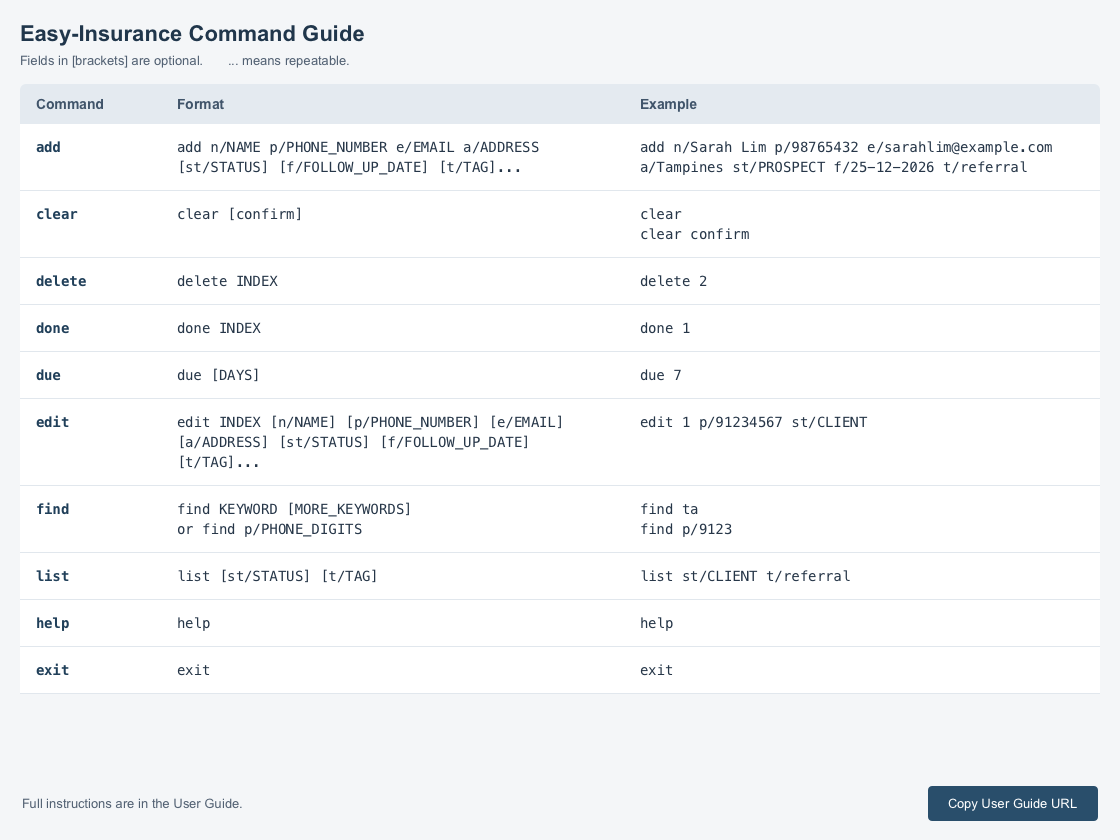
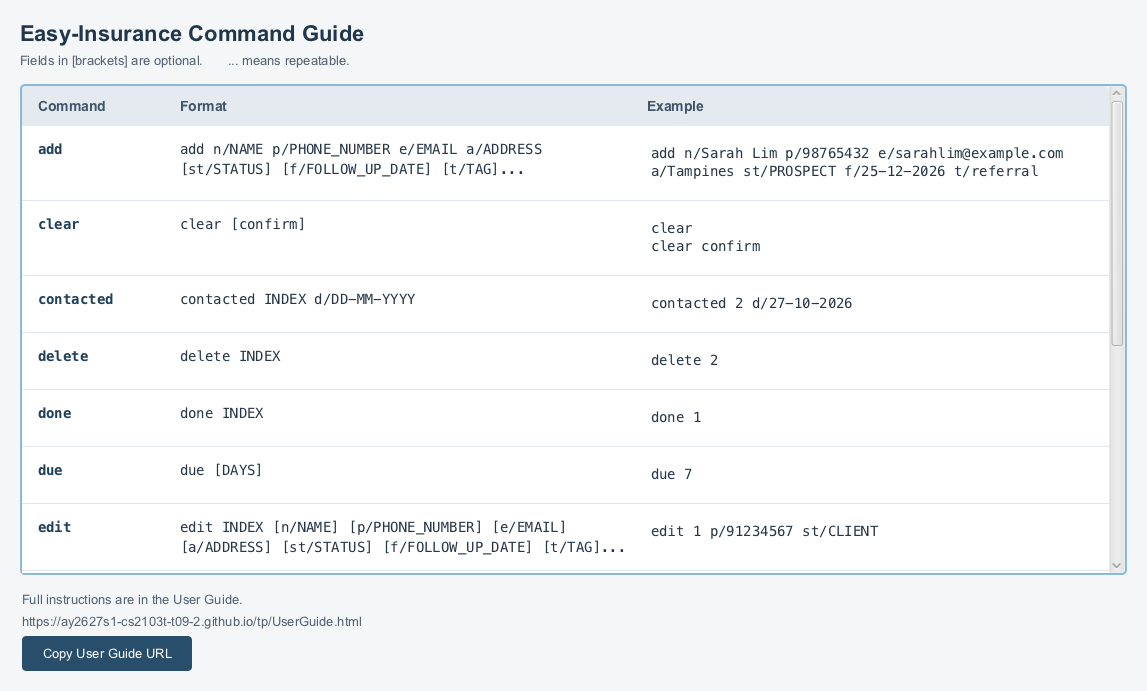
Refresh Help screenshots in the User Guide

diff --git a/docs/UserGuide.md b/docs/UserGuide.md
@@ -136,7 +136,13 @@ If a box contains multiple example commands, select just the command you want to
 While an example is focused, arrow keys move its text cursor. Use **Tab** or **Shift+Tab** to return to the
 command guide for keyboard scrolling.
 
-![help message](images/helpMessage.png)
+The top of the command guide:
+
+![Help command guide showing add, clear, contacted, delete, done, due and edit](images/helpMessage.png)
+
+Scroll down to see the remaining commands. The footer below shows confirmation after copying the User Guide URL:
+
+![Help command guide showing interaction notes and the URL-copy confirmation](images/helpMessageNotes.png)
 
 Format: `help`
 
